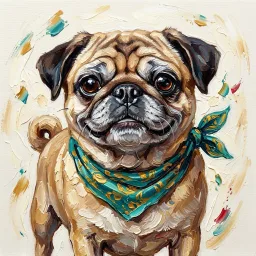
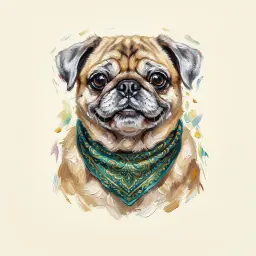
feat: 2차 유화 캐리커처 8장(프렌치불독 성견·아기, 시바 아기·노령, 허스키 노령, 차우차우 노령, 세인트버나드·퍼그 노령 교체) (0.1.6)
- 프렌치불독은 소형·단두종으로 분류
- 차우차우는 성견·아기 그림이 아직 없어 노령에만 연결(성견·아기 칸은 비움)
- 수정 창: 나이를 바꿔 고른 그림이 사라지면 같은 견종의 전용 그림으로 유지
- 캐시 쿼리 0.1.6-17, 서비스워커 v23(미리 받기 28장)

diff --git a/app.js b/app.js
@@ -1,4 +1,4 @@
-import { mountShelter } from './shelter.js?v=0.1.6-16';
+import { mountShelter } from './shelter.js?v=0.1.6-17';
 import { ROLE_LABEL, DAY_NOTE, policyText, nextLoginText } from './role-policy.js?v=0.1.6';
 // 꼬리길 모바일 웹. 로그인·세션은 frontend-book-walking/auth.js(= frontend-go-fishing/auth.js)를 그대로 쓴다(토큰은 sessionStorage, 서버가 만료 최종 판단).
 import { errText } from './errors.js?v=0.1.6';
@@ -59,12 +59,12 @@ const BREEDS = {
   maltese:     { size: 'small',  brachy: false, doubleCoat: false, label: '말티즈',   art: ['maltese-1', 'maltese-4', 'maltese-5', 'maltese-2', 'maltese-3'], ages: {} },
   // 그림 파일은 소문자·숫자·하이픈 이름(예: saint-bernard-puppy). 아래는 그림이 생기면 art 에 이름만 넣으면 바로 후보가 된다(지금은 그림이 없어 건너뜀)
   saint_bernard:  { size: 'large',  brachy: true,  doubleCoat: true,  label: '세인트버나드', art: ['saint-bernard'], ages: { puppy: ['saint-bernard-puppy'], senior: ['saint-bernard-senior'] } },
-  husky:          { size: 'large',  brachy: false, doubleCoat: true,  label: '허스키',       art: ['husky'], ages: { puppy: ['husky-puppy'] } },
+  husky:          { size: 'large',  brachy: false, doubleCoat: true,  label: '허스키',       art: ['husky'], ages: { puppy: ['husky-puppy'], senior: ['husky-senior'] } },
   samoyed:        { size: 'large',  brachy: false, doubleCoat: true,  label: '사모예드',     art: [], ages: {} },
-  chow_chow:      { size: 'medium', brachy: true,  doubleCoat: true,  label: '차우차우',     art: [], ages: {} },
+  chow_chow:      { size: 'medium', brachy: true,  doubleCoat: true,  label: '차우차우',     art: [], ages: { senior: ['chow-chow-senior'] } }, // 성견·아기 그림은 아직 없음: 노령 그림을 성견 칸에 쓰지 않고 비워 둔다
   jindo:          { size: 'medium', brachy: false, doubleCoat: true,  label: '진돗개',       art: [], ages: {} },
-  shiba:          { size: 'medium', brachy: false, doubleCoat: true,  label: '시바',         art: ['shiba'], ages: {} },
-  french_bulldog: { size: 'medium', brachy: true,  doubleCoat: false, label: '프렌치불독',   art: [], ages: {} },
+  shiba:          { size: 'medium', brachy: false, doubleCoat: true,  label: '시바',         art: ['shiba'], ages: { puppy: ['shiba-puppy'], senior: ['shiba-senior'] } },
+  french_bulldog: { size: 'small',  brachy: true,  doubleCoat: false, label: '프렌치불독',   art: ['french-bulldog'], ages: { puppy: ['french-bulldog-puppy'] } },
   pug:            { size: 'small',  brachy: true,  doubleCoat: false, label: '퍼그',         art: ['pug'], ages: { puppy: ['pug-puppy'], senior: ['pug-senior'] } },
   shih_tzu:       { size: 'small',  brachy: true,  doubleCoat: true,  label: '시츄',         art: ['shih-tzu'], ages: { puppy: ['shih-tzu-puppy'], senior: ['shih-tzu-senior'] } },
   chihuahua:      { size: 'small',  brachy: false, doubleCoat: false, label: '치와와',       art: [], ages: {} },
@@ -164,13 +164,19 @@ function drawDogDraftChips() {
   updateDogHints();
 }
 /** 캐릭터 고르기: 지금 고른 크기·단두종·털에 맞는 종류의 5개 중 1개 */
-let pickerArts = null; // 직전에 보여 준 후보(특성이 바뀔 때 사용자가 고른 그림이 새 후보에도 있으면 유지)
+let pickerArts = null; // 직전에 보여 준 후보 {art, breed}(특성이 바뀔 때 사용자가 고른 그림, 없으면 같은 견종이 새 후보에도 있으면 유지)
 function drawAvatarPicker() {
   const body = draftBody(), cands = characterCandidates(body), box = $('#dogAvatar');
-  // 사용자가 직접 고른 그림(또는 저장돼 있던 그림)이 새 후보에도 있으면 유지, 아니면 새 조합의 1번
-  if (pickerArts) { const chosen = pickerArts[dogDraft.variant - 1], i = dogDraft.picked ? cands.findIndex(c => c.art === chosen) : -1; dogDraft.variant = i >= 0 ? i + 1 : 1; }
+  // 사용자가 직접 고른 그림(또는 저장돼 있던 그림)이 새 후보에도 있으면 유지, 그림은 없어도 같은 견종이 있으면 그 견종
+  // (예: 허스키를 고른 채 노령견으로 바꾸면 노령 허스키 전용 그림), 둘 다 없으면 새 조합의 1번
+  if (pickerArts) {
+    const chosen = pickerArts[dogDraft.variant - 1];
+    let i = dogDraft.picked && chosen ? cands.findIndex(c => c.art === chosen.art) : -1;
+    if (i < 0 && dogDraft.picked && chosen) i = cands.findIndex(c => c.breed === chosen.breed);
+    dogDraft.variant = i >= 0 ? i + 1 : 1;
+  }
   if (dogDraft.variant > cands.length) dogDraft.variant = 1;
-  pickerArts = cands.map(c => c.art); const v = dogDraft.variant;
+  pickerArts = cands.map(c => ({ art: c.art, breed: c.breed })); const v = dogDraft.variant;
   $('#dogAvatarKind').textContent = comboLabel(body);
   box.innerHTML = cands.map((c, i) => { const n = i + 1; return `<button type="button" class="ava-opt${n === v ? ' on' : ''}" role="radio" aria-checked="${n === v}" data-n="${n}" aria-label="${esc(c.label)}"><span class="ava-img${c.ageVariant ? ' age-' + c.ageVariant : ''}${c.ageBadge ? ' badge-' + c.ageBadge : ''}"><img src="${caricatureSrc(c.art)}" alt="" width="64" height="64" decoding="async"></span><small>${esc(c.label)}</small></button>`; }).join('');
   box.querySelectorAll('.ava-opt').forEach(b => b.onclick = () => { dogDraft.variant = Number(b.dataset.n); dogDraft.picked = true; drawAvatarPicker(); scheduleDogLive(); });

diff --git a/sw.js b/sw.js
@@ -1,7 +1,7 @@
 // 앱 셸만 캐시(오프라인 첫 화면). API 응답은 캐시하지 않는다(날씨는 항상 최신 조회).
-const CACHE = 'tailtrail-shell-v22';
+const CACHE = 'tailtrail-shell-v23';
 // 캐리커처 22장(합계 약 330KB)은 처음 설치할 때 함께 받아 둔다(오프라인에서도 아이 그림이 보이게)
-const CARICATURES = ['maltese-1', 'maltese-2', 'maltese-3', 'maltese-4', 'maltese-5', 'poodle', 'pomeranian', 'corgi', 'bichon', 'retriever', 'saint-bernard', 'saint-bernard-puppy', 'saint-bernard-senior', 'pug', 'pug-puppy', 'pug-senior', 'shih-tzu', 'shih-tzu-puppy', 'shih-tzu-senior', 'husky', 'husky-puppy', 'shiba'].map(n => `./assets/caricatures/${n}.webp`);
+const CARICATURES = ['maltese-1', 'maltese-2', 'maltese-3', 'maltese-4', 'maltese-5', 'poodle', 'pomeranian', 'corgi', 'bichon', 'retriever', 'saint-bernard', 'saint-bernard-puppy', 'saint-bernard-senior', 'pug', 'pug-puppy', 'pug-senior', 'shih-tzu', 'shih-tzu-puppy', 'shih-tzu-senior', 'husky', 'husky-puppy', 'husky-senior', 'shiba', 'shiba-puppy', 'shiba-senior', 'french-bulldog', 'french-bulldog-puppy', 'chow-chow-senior'].map(n => `./assets/caricatures/${n}.webp`);
 const SHELL = ['./', './manifest.webmanifest', './assets/icon.svg', ...CARICATURES];
 self.addEventListener('install', e => e.waitUntil(caches.open(CACHE).then(c => c.addAll(SHELL)).then(() => self.skipWaiting())));
 self.addEventListener('activate', e => e.waitUntil(caches.keys().then(ks => Promise.all(ks.filter(k => k !== CACHE).map(k => caches.delete(k)))).then(() => self.clients.claim())));

diff --git a/index.html b/index.html
@@ -15,7 +15,7 @@
   <link rel="preconnect" href="https://fonts.gstatic.com" crossorigin>
   <link rel="stylesheet" href="https://cdn.jsdelivr.net/gh/orioncactus/pretendard@v1.3.9/dist/web/variable/pretendardvariable-dynamic-subset.min.css">
   <link href="https://fonts.googleapis.com/css2?family=Noto+Sans+KR:wght@400;500;700;800&display=swap" rel="stylesheet">
-  <link rel="stylesheet" href="style.css?v=0.1.6-16">
+  <link rel="stylesheet" href="style.css?v=0.1.6-17">
 </head>
 <body>
   <!-- 로그인 -->
@@ -193,7 +193,7 @@
   </div>
   <script src="config.js?v=0.1.6"></script>
   <script src="telemetry.js?v=0.1.6"></script>
-  <script src="app.js?v=0.1.6-16" type="module"></script>
+  <script src="app.js?v=0.1.6-17" type="module"></script>
   <script src="visit.js?v=0.1.6" type="module"></script>
 </body>
 </html>
